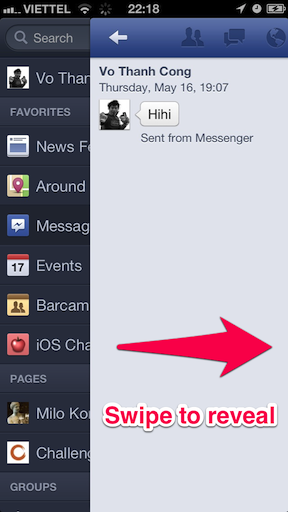
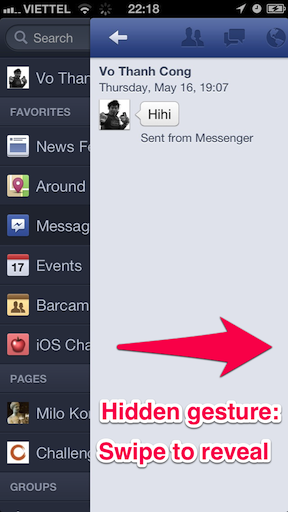
improve ios navigation images

Changed region(s): [[0.3125, 0.7812, 1.0, 0.9375]]

diff --git a/_posts/2013-05-18-ios-navigation.md b/_posts/2013-05-18-ios-navigation.md
@@ -1,21 +1,19 @@
 ---
 layout: post
-title: Choosing Navigation UI for your app: Tab Bar vs Sidebar?
+title: Choosing Navigation UI for your app. Tab Bar vs Sidebar?
 tag: startup, ui, ux, ios, navigation
 
 ---
-To use Tab Bar or to use Sidebar, that is the question?
+_To use Tab Bar or to use Sidebar, that is the question?_
 
 Tab Bar navigation is a standard navigation in iOS, which can be found in Twitter app or Instagram app. While Sidebar navigation is a newer trend, you can find in popular app like Facebook or Path.
 
 ![](/images/2013/instagram-tabbar.png)
-![](/images/2013/twitter-tabbar.png)
 ![](/images/2013/facebook-sidebar.png)
-![](/images/2013/path-sidebar.png)
 
-It's interesting that 4 apps above are all social apps, but they have different ways to present available functions in the app  How did each apps choose their UI? If you are building your new iOS app, which kind of navigation will you use?
+It's interesting that 4 apps above are all social apps, but they have different ways to present available functions in the app.  How did each app choose their UI? If you are building your new iOS app, which kind of navigation will you use?
 
-These are some ideas I learnt when making choice for my Challenge App.
+Let's consider some of the difference between these 2 UI patterns:
 
 # Space taken: Tab Bar vs Sidebar: 0 - 1
 We start with an obvious element: Sidebar hides the navigation options to the left side, so it save lots of space for main content. On other hand, Tab Bar always takes some space at the bottom of you screen.
@@ -27,7 +25,10 @@ As a result of taking space, Tab Bar presents more functional options users can 
 
 If your app have more than 1 functions that can be used daily, Tabbar is a good choice.
 
-From here, I start to consider that Tabbar is more suitable for mobile-first app, while Sidebar is more suitable for consuming app (app which is a consuming version of another web version). I will talk more about this later...
+From here, I start to consider that __Tabbar is more suitable for mobile-first app, while Sidebar is more suitable for consuming app__ (app which is a consuming version of another web version). I will talk more about this later...
+
+![](/images/2013/path-sidebar.png)
+![](/images/2013/twitter-tabbar.png)
 
 # Accessibility (Physically and Usability): Tab Bar vs Sidebar: 1 - 0
 Is it easy for users to select the menu in Tab Bar and Sidebar?
@@ -35,6 +36,7 @@ Is it easy for users to select the menu in Tab Bar and Sidebar?
 Due to the way we hold our phone, Tab Bar which is placed at the bottom of the screen, make it easier to touch. All Tabs are visible, so it's even faster. 
 
 With Sidebar, it's much harder for your finger to reach the Sidebar button at top-left corner. There usually have many options to choose after that, check Facebook or Path app. It requires lots of thinking for 1 selection.
+
 
 # Getting back: Tab Bar vs Sidebar: 1 - 0
 Is it easy for users to get back to default view, after using the app for a while?
@@ -46,7 +48,7 @@ Now, continue with Facebook app, choose the [i] button in top-right corner, choo
 
 ![](/images/2013/facebook-stack-of-view.png)
 
-To fix this, Sidebar give you ability to swipe to left to access Sidebar, regardless where you are (with some twist in implementation). With this gesture, you don't need to reach your finger to top-left button any more, you only need to swipe.
+To fix this, Sidebar give you ability to swipe to left to access Sidebar, no matter where you are. With this gesture, you don't need to reach your finger to top-left button any more, perform a swipe is much easier. However normal users don't know about this swipe-to-reveal gesture.
 
 With Tab Bar, most of the time, your Tabs will be there for you to select. To navigate back in a stack of view, just touch the same tab twice. This is easier to discover than Sidebar's swipe-to-reveal.
 
@@ -54,16 +56,16 @@ With Tab Bar, most of the time, your Tabs will be there for you to select. To na
 ![](/images/2013/instagram-tab-go-back.png)
 
 # Action button: Tabbar vs Sidebar: 1 - 0
-For some app, creating new content is also as important as consuming content.
+For some app, creating new content is sometime more important as browsing content.
 
-With Instagram app, 1 main reason that people open the app is when they want to share a photo. At some moment, users want to access camera as quickly as posible. Instagram solve that problem with a big button in their Tab Bar. 
+In Instagram app, people open the app when they want to share a photo. At some moment, users want to access camera as quickly as posible. Instagram solve that problem with a big button in their Tab Bar. 
 
 Path app, add their action button at the bottom-right corner. It's a good solution, but it will not give me a firmly feeling like Instagram button.
 
 
 # Summary
-In mobile app, where user experience is very important, it takes you time to decide which UI pattern is suitable for you. Ask yourself which one is natural to use, easy to remember, convienient to access?
+In mobile app, where user experience is very important, it takes you time to decide which UI pattern is suitable for your app, which makes your app natural to use, easy to remember, convienient to access?
 
-If you need a quick reference, I would say that Tab Bar is more suitable for mobile-first (social) app. Where creating content in app is more important than browsing content and you need to show users that you have more than 1 useful features.
+Howerver if you need a quick reference, I would say that Tab Bar is more suitable for mobile-first (social) app. Where creating content in app is more important than browsing content and you need to show users that you have more than 1 useful features.
 
-Sidebar is suitable for consuming app, where content can be create outside the app.
+Sidebar is suitable for consuming app, where content can be created outside the app.
